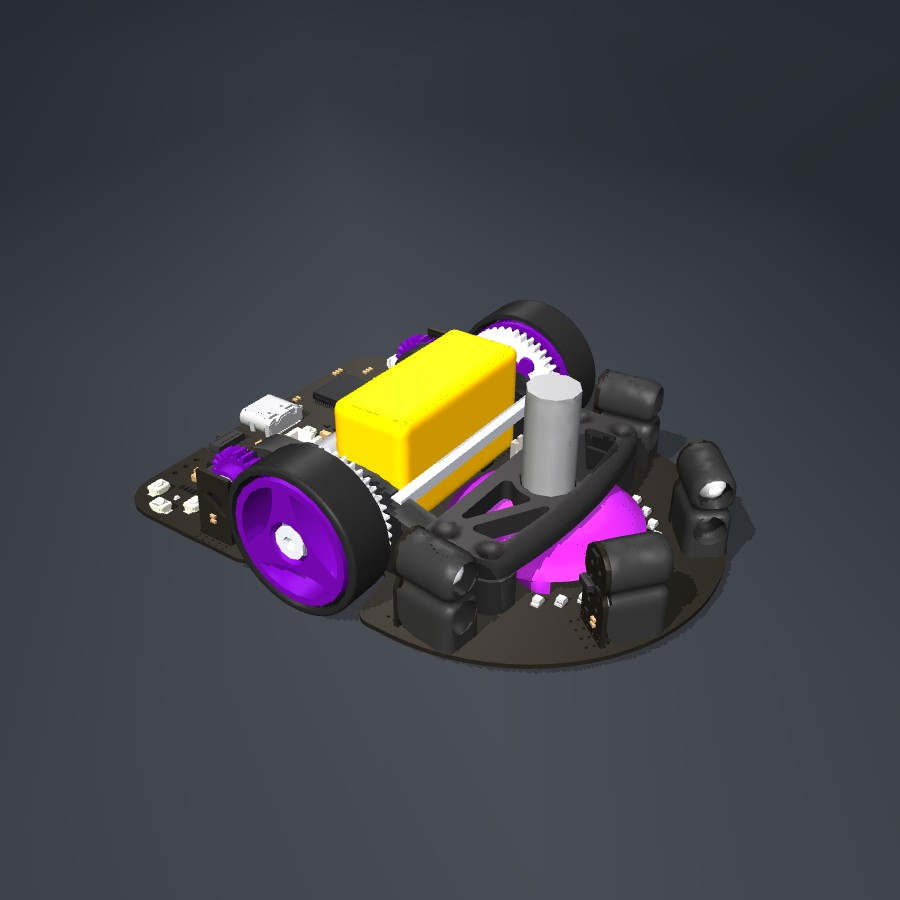
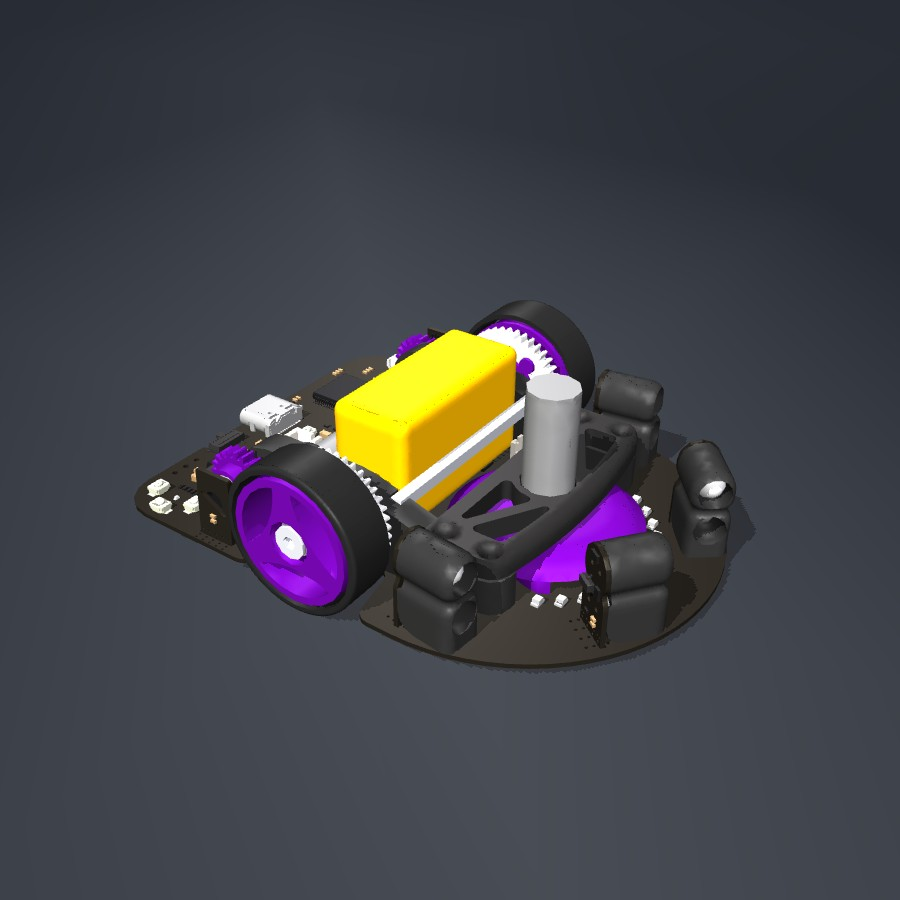
ZoroBot3's fan the colour of its wheels' rims (zorobot/cad.py; its meshes made again when cad.py is newer than them); its portrait, the README's maze picture and its picture in the maze again

diff --git a/ratasim/zorobot/cad.py b/ratasim/zorobot/cad.py
@@ -25,6 +25,7 @@ COMPONENT_RGB = (                   # name contains: colour
     (('USB', 'SW_SPST'), (200, 200, 205)),
     (('JST', 'DF13'), (235, 228, 210)),
 )
+FAN, RIM = 'Ventilador_v2', 'Rueda'    # its fan the colour of its wheels' rims
 METAL = ('ball bearing', '/Ball', 'MR63ZZ', ' shell', 'screw', 'nut', 'Varilla')
 
 
@@ -131,6 +132,8 @@ def write_stl(path, tris):
 
 def build(step, out):
     parts = tessellate(step)
+    rim = next(rgb for n, rgb, _ in parts if n.split('/')[-1] == RIM)
+    parts = [(n, rim if n.split('/')[-1] == FAN else rgb, t) for n, rgb, t in parts]
     to_robot = robot_frame(parts)
     groups = {}
     for name, rgb, t in parts:
@@ -147,9 +150,10 @@ def build(step, out):
 
 
 def ensure(step, out):
-    """The meshes' directory, built first if they are missing or older than the STEP."""
+    """The meshes' directory, built first if they are missing or older than the STEP or this file."""
     m = os.path.join(out, 'manifest.json')
-    if os.path.exists(m) and (not os.path.exists(step) or os.path.getmtime(m) >= os.path.getmtime(step)):
+    if os.path.exists(m) and (not os.path.exists(step) or
+                              os.path.getmtime(m) >= max(os.path.getmtime(step), os.path.getmtime(__file__))):
         return out
     if not os.path.exists(step):
         raise SystemExit(f'ZoroBot3: its STEP is missing. In Onshape, export its "Full Assembly" as one STEP file '
